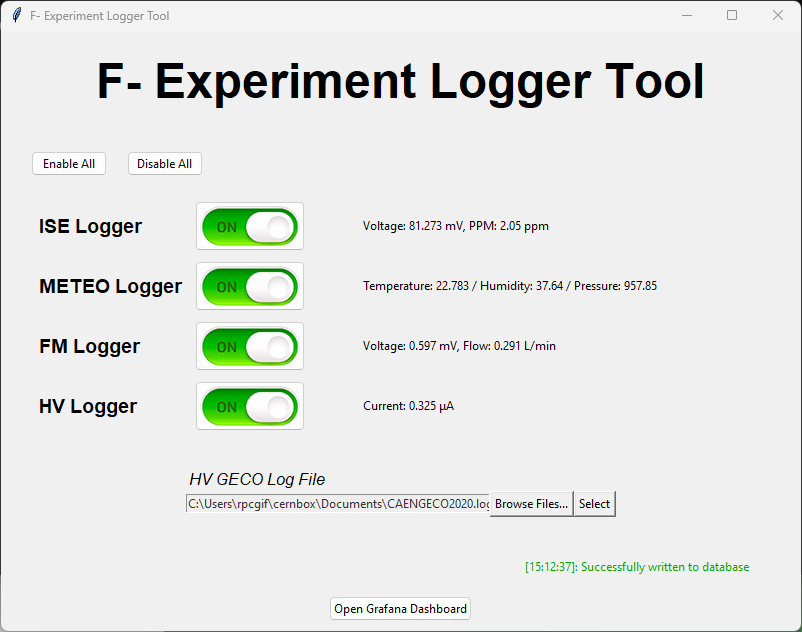
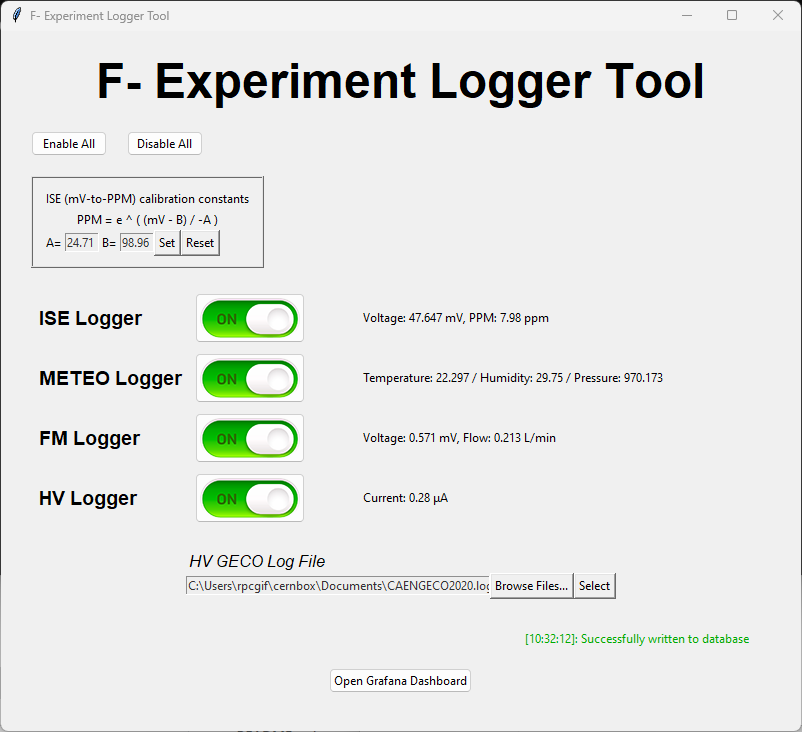
Updated README.md

diff --git a/README.md b/README.md
@@ -33,4 +33,11 @@ DB_PASSWORD = "db_password"
 DB_DATABASE = "db_database"
 ```
 
+A file named `default_calibration.txt` must be placed in the project's root directory.
+It's a simple text file containing two floats, the values for 'A' and 'B' in the ISE's 'mv-to-PPM' conversion formula.
+`PPM = e ^ ((mV - B) / -A)`  
+These values are separated by a single space and should take the format: `24.71 98.96`  
+(This file will be updated automatically when these values are set from within the program,
+so nothing further is required.)
+
 The program can be started simply by running `main.py` through the Python command-line.
